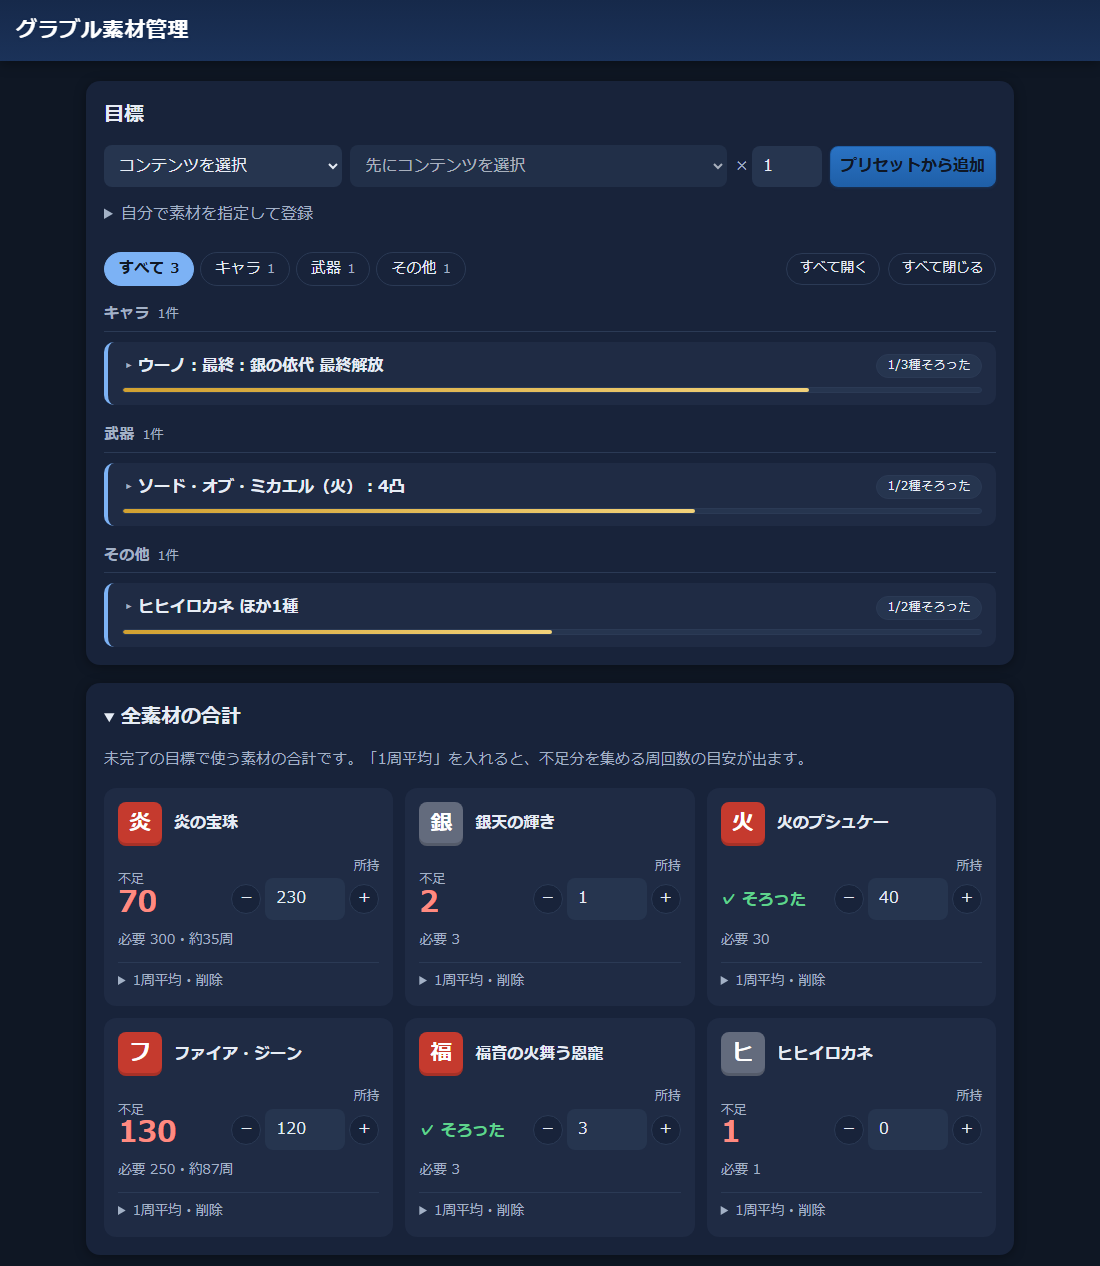
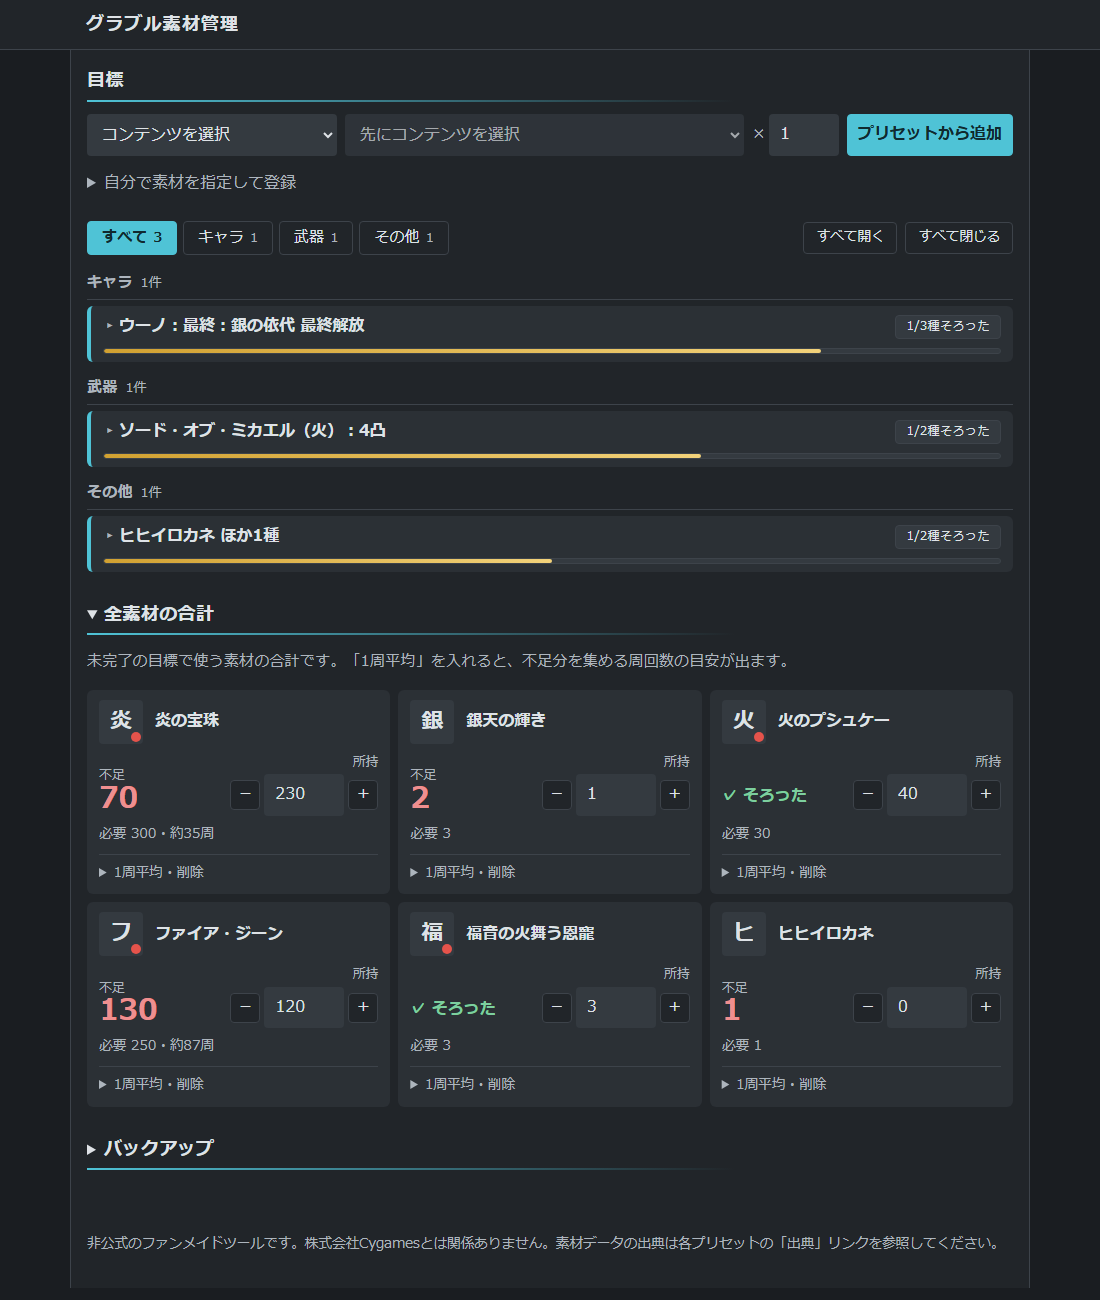
配色を濃い灰色にし、見出しを線で区切り、属性をアイコンの丸で示す

diff --git a/src/style.css b/src/style.css
@@ -1,33 +1,30 @@
-/* 夜空のテーマ（黒ベース） */
+/* 濃い灰色のテーマ。アクセントは青緑の1色だけにする（gbfdrop を参考にした） */
 :root {
   /* ブラウザの入力欄やスクロールバーも暗い色で表示させる */
   color-scheme: dark;
   /* 文字と背景の明るさの差（コントラスト比）が 4.5 以上になる明るさにしている */
-  --sky-top: #16294a;
-  --sky-bottom: #1b3259;
-  --bg: #0f1724;
-  --card: #18233a;
-  --card-shadow: 0 2px 12px rgba(0, 0, 0, .35);
-  --text: #e6ecf5;
-  --muted: #a3b1c6;
-  --border: #2b3a55;
-  --field: #26354f; /* 入力欄。カードより少し明るくして、凹んだ穴に見えないようにする */
-  --tile: #1f2b44;  /* カードの中のタイルや目標。枠線ではなく背景の明るさで区切る */
-  --accent: #7cb2f5;
-  --accent-text: #0f1724;
+  --bg: #1a1d21;    /* ページの外側 */
+  --main: #212529;  /* 本文の列 */
+  --card: #212529;
+  --tile: #2b3035;  /* 目標やタイル。枠線ではなく背景の明るさで区切る */
+  --field: #343a40; /* 入力欄。まわりより少し明るくして、凹んだ穴に見えないようにする */
+  --text: #dee2e6;
+  --muted: #adb5bd;
+  --border: #3d434a;
+  --accent: #4fc3d6;
+  --accent-text: #102a2f;
   --gold: #d1a131;
   --gold-light: #f2d27a;
-  --good: #5fd38d;
-  --bad: #ff8a80;
-  --good-bg: #16352a;
-  /* 属性の色。アイコンの白い頭文字が読めるように濃くしている（光だけは明るい黄色に濃い文字） */
-  --el-fire: #c53a2e;
-  --el-water: #2468b3;
-  --el-earth: #8c5d1e;
-  --el-wind: #1f7a45;
+  --good: #7dcf9f;
+  --bad: #ef8f8f;
+  --good-bg: #24382e;
+  /* 属性の色。アイコンの右下の小さな丸に使う */
+  --el-fire: #e5534b;
+  --el-water: #4a9eff;
+  --el-earth: #c08a3e;
+  --el-wind: #3fb96f;
   --el-light: #e8c547;
-  --el-light-text: #1f2d4a; /* 光のアイコンは背景が明るい黄色なので、頭文字は暗い色にする */
-  --el-dark: #7b4fc4;
+  --el-dark: #a77bf0;
   --el-none: #636b7d;
 }
 
@@ -42,39 +39,38 @@ body {
   background-color: var(--bg);
 }
 
-/* ---------- ヘッダー（空） ---------- */
+/* ---------- ヘッダー ---------- */
 .app-header {
   position: sticky;
   top: 0;
   z-index: 2;
-  padding: 14px 16px;
-  color: #fff;
-  background: linear-gradient(180deg, var(--sky-top), var(--sky-bottom));
-  box-shadow: 0 2px 12px rgba(0, 0, 0, .4);
-  overflow: hidden;
+  padding: 10px 16px;
+  background: var(--main);
+  border-bottom: 1px solid var(--border);
 }
-.app-header h1 {
-  position: relative;
-  margin: 0;
-  font-size: 1.3rem;
-  letter-spacing: .04em;
-  text-shadow: 0 1px 3px rgba(0, 40, 90, .35);
-}
+/* 本文の列（幅 960px、左右の余白 16px）と左端をそろえる */
+.app-header h1 { max-width: 928px; margin: 0 auto; font-size: 1.15rem; letter-spacing: .04em; }
 
-main { max-width: 960px; margin: 0 auto; padding: 20px 16px 24px; }
-.app-footer { max-width: 960px; margin: 0 auto; padding: 0 16px 32px; color: var(--muted); font-size: .85rem; }
-
-/* ---------- カード ---------- */
-.card {
-  background: var(--card);
-  border: none;
-  border-radius: 14px;
-  padding: 18px;
-  margin-bottom: 18px;
-  box-shadow: var(--card-shadow);
+/* 本文とフッターは少し明るい灰色の列にし、左右に細い線を引く */
+main, .app-footer {
+  max-width: 960px;
+  margin: 0 auto;
+  background: var(--main);
+  border-left: 1px solid var(--border);
+  border-right: 1px solid var(--border);
 }
-/* 見出しは飾りを付けず、大きさで目立たせる。金色は進捗バーにだけ使う（天井計算と同じ） */
-.card h2 { margin: 0 0 14px; font-size: 1.25rem; }
+main { padding: 16px 16px 24px; }
+.app-footer { padding: 0 16px 32px; color: var(--muted); font-size: .85rem; }
+
+/* ---------- 区切り（カード） ---------- */
+/* 箱で囲まず、見出しの下の線だけで区切る。金色は進捗バーにだけ使う（天井計算と同じ） */
+.card { margin-bottom: 28px; background: var(--card); }
+.card > h2, details.card > summary {
+  margin: 0 0 12px;
+  padding-bottom: 6px;
+  background: linear-gradient(90deg, var(--accent), transparent 70%) left bottom / 100% 2px no-repeat;
+}
+.card h2 { font-size: 1.15rem; }
 
 /* ---------- 入力・ボタン ---------- */
 input, select, button {
@@ -82,7 +78,7 @@ input, select, button {
   color: var(--text);
   background: var(--field);
   border: 1px solid transparent;
-  border-radius: 8px;
+  border-radius: 4px;
   padding: 7px 10px;
 }
 /* 入力欄は背景の明るさで見分けられるので枠を消し、ボタンだけ枠を残す */
@@ -92,13 +88,12 @@ input:focus, select:focus { outline: 2px solid var(--accent); outline-offset: -1
 button { cursor: pointer; background: var(--card); transition: background .15s, border-color .15s; }
 button:hover:not(:disabled) { border-color: var(--accent); }
 button[type="submit"], #export-btn {
-  background: linear-gradient(180deg, #2a73c4, #1f5fa8);
+  background: var(--accent);
   color: var(--accent-text);
-  border-color: #1f5fa8;
+  border-color: var(--accent);
   font-weight: bold;
-  box-shadow: 0 1px 3px rgba(30, 90, 160, .3);
 }
-button[type="submit"]:hover:not(:disabled), #export-btn:hover { background: linear-gradient(180deg, #276fbe, #1c5aa0); }
+button[type="submit"]:hover:not(:disabled), #export-btn:hover { filter: brightness(1.1); }
 button:disabled { opacity: .45; cursor: not-allowed; }
 button.danger, .danger { color: var(--bad); }
 button.icon { padding: 4px 9px; }
@@ -143,12 +138,12 @@ tbody tr:hover { background: color-mix(in srgb, var(--accent) 5%, transparent); 
 input.num { width: 80px; }
 
 .stepper { display: flex; align-items: center; gap: 4px; }
-.stepper button { border-radius: 50%; width: 30px; height: 30px; padding: 0; }
+.stepper button { width: 30px; height: 30px; padding: 0; }
 
 .empty, .hint { color: var(--muted); font-size: .95rem; }
 
 /* ---------- 目標リスト ---------- */
-#target-list { margin-top: 8px; display: grid; gap: 10px; }
+#target-list { margin-top: 8px; display: grid; gap: 6px; }
 .target-group {
   display: flex;
   align-items: baseline;
@@ -161,7 +156,7 @@ input.num { width: 80px; }
 }
 .target-group-count { font-size: .8rem; font-weight: normal; }
 .list-tools { display: flex; flex-wrap: wrap; justify-content: flex-end; align-items: center; gap: 8px; margin-top: 16px; }
-.list-tools button { font-size: .85rem; padding: 4px 12px; border-radius: 999px; }
+.list-tools button { font-size: .85rem; padding: 4px 12px; }
 
 /* 分類のタブ。左に寄せ、「すべて開く」などは右に残す */
 .tabs { display: flex; flex-wrap: wrap; gap: 6px; margin-right: auto; }
@@ -172,15 +167,14 @@ input.num { width: 80px; }
 
 .target {
   margin: 0;
-  border: none;
   border-left: 4px solid var(--accent);
-  border-radius: 10px;
+  border-radius: 6px;
   background: var(--tile);
   overflow: hidden;
 }
 .target > summary {
   margin: 0;
-  padding: 12px 14px;
+  padding: 8px 12px;
   color: var(--text);
   list-style: none;
 }
@@ -211,7 +205,7 @@ input.num { width: 80px; }
 .badge {
   font-size: .78rem;
   border: 1px solid var(--border);
-  border-radius: 999px;
+  border-radius: 4px;
   padding: 1px 10px;
   white-space: nowrap;
   background: var(--field);
@@ -219,10 +213,10 @@ input.num { width: 80px; }
 .target.ready .badge { color: var(--good); border-color: var(--good); background: var(--card); font-weight: bold; }
 .badge.shared { color: var(--accent); border-color: var(--accent); background: none; cursor: help; }
 
-/* 全素材の合計（折りたたみカード） */
+/* 全素材の合計（折りたたみ） */
 /* 素材ごとのタイルを、画面の幅に合わせて何列かに並べる */
-.mat-grid { display: grid; grid-template-columns: repeat(auto-fill, minmax(260px, 1fr)); gap: 12px; }
-.mat-tile { display: grid; gap: 10px; align-content: start; padding: 14px; border-radius: 12px; background: var(--tile); }
+.mat-grid { display: grid; grid-template-columns: repeat(auto-fill, minmax(260px, 1fr)); gap: 8px; }
+.mat-tile { display: grid; gap: 8px; align-content: start; padding: 10px 12px; border-radius: 6px; background: var(--tile); }
 .mat-tile .mat-name { gap: 12px; }
 .mat-tile .mat-label { flex: 1; min-width: 0; }
 .mat-main { display: flex; align-items: flex-end; justify-content: space-between; gap: 8px; }
@@ -242,9 +236,8 @@ input.num { width: 80px; }
 .mat-delete { margin-left: auto; font-size: .85rem; padding: 2px 10px; }
 
 details.card { margin-top: 0; }
-details.card > summary { margin: 0; color: var(--text); }
+details.card > summary { color: var(--text); }
 details.card > summary h2 { display: inline; margin: 0; }
-details.card[open] > summary { margin-bottom: 12px; }
 
 /* ---------- 進捗バー ---------- */
 .bar {
@@ -265,35 +258,50 @@ details.card[open] > summary { margin-bottom: 12px; }
 /* ---------- 素材アイコン ---------- */
 .mat-name { display: flex; align-items: center; gap: 10px; }
 .mat-label { display: flex; flex-direction: column; align-items: flex-start; }
+/* 画像がないときは灰色の四角に頭文字。属性はアイコン全体を塗らず、右下の小さな丸で示す */
 .mat-icon {
   --size: 32px;
+  position: relative;
   display: inline-flex;
   align-items: center;
   justify-content: center;
   flex: none;
   width: var(--size);
   height: var(--size);
-  border-radius: 8px;
+  border-radius: 4px;
   overflow: hidden;
-  color: #fff;
+  color: var(--text);
   font-size: calc(var(--size) * 0.5);
   font-weight: bold;
   line-height: 1;
   vertical-align: middle;
-  background: var(--el-none);
-  box-shadow: inset 0 -3px 0 rgba(0, 0, 0, .15);
+  background: var(--field);
+}
+.mat-icon::after {
+  content: '';
+  position: absolute;
+  right: 2px;
+  bottom: 2px;
+  width: 28%;
+  height: 28%;
+  max-width: 10px;
+  max-height: 10px;
+  border-radius: 50%;
+  background: var(--dot, transparent);
 }
 .mat-icon img { width: 100%; height: 100%; object-fit: cover; display: block; }
-.mat-icon:has(img) { background: var(--field); border: 1px solid var(--border); box-shadow: none; }
-.el-fire { background: var(--el-fire); }
-.el-water { background: var(--el-water); }
-.el-earth { background: var(--el-earth); }
-.el-wind { background: var(--el-wind); }
-.el-light { background: var(--el-light); color: var(--el-light-text); }
-.el-dark { background: var(--el-dark); }
+/* 登録した画像には丸を重ねない */
+.mat-icon:has(img) { border: 1px solid var(--border); }
+.mat-icon:has(img)::after { content: none; }
+.el-fire { --dot: var(--el-fire); }
+.el-water { --dot: var(--el-water); }
+.el-earth { --dot: var(--el-earth); }
+.el-wind { --dot: var(--el-wind); }
+.el-light { --dot: var(--el-light); }
+.el-dark { --dot: var(--el-dark); }
 
 .icon-wrap { position: relative; display: inline-flex; }
-.icon-button { padding: 0; border: none; background: none; border-radius: 8px; }
+.icon-button { padding: 0; border: none; background: none; border-radius: 4px; }
 .icon-button:hover .mat-icon, .icon-button:focus-visible .mat-icon { outline: 2px solid var(--accent); outline-offset: 1px; }
 .icon-remove {
   position: absolute;
@@ -313,5 +321,4 @@ details.card[open] > summary { margin-bottom: 12px; }
 /* ---------- スマホ ---------- */
 @media (max-width: 600px) {
   main { padding: 14px 12px 32px; }
-  .card { padding: 14px; }
 }

diff --git a/src/icons.ts b/src/icons.ts
@@ -1,7 +1,7 @@
 import { el } from './util.ts';
 import type { Material } from './storage.ts';
 
-// 素材アイコン: 登録した画像があればそれを、なければ属性の色＋頭文字のアイコンを表示する
+// 素材アイコン: 登録した画像があればそれを、なければ頭文字のアイコン（右下に属性の色の丸）を表示する
 export const MaterialIcon = (() => {
   const ICON_SIZE = 64; // 保存する画像の一辺(px)
 
